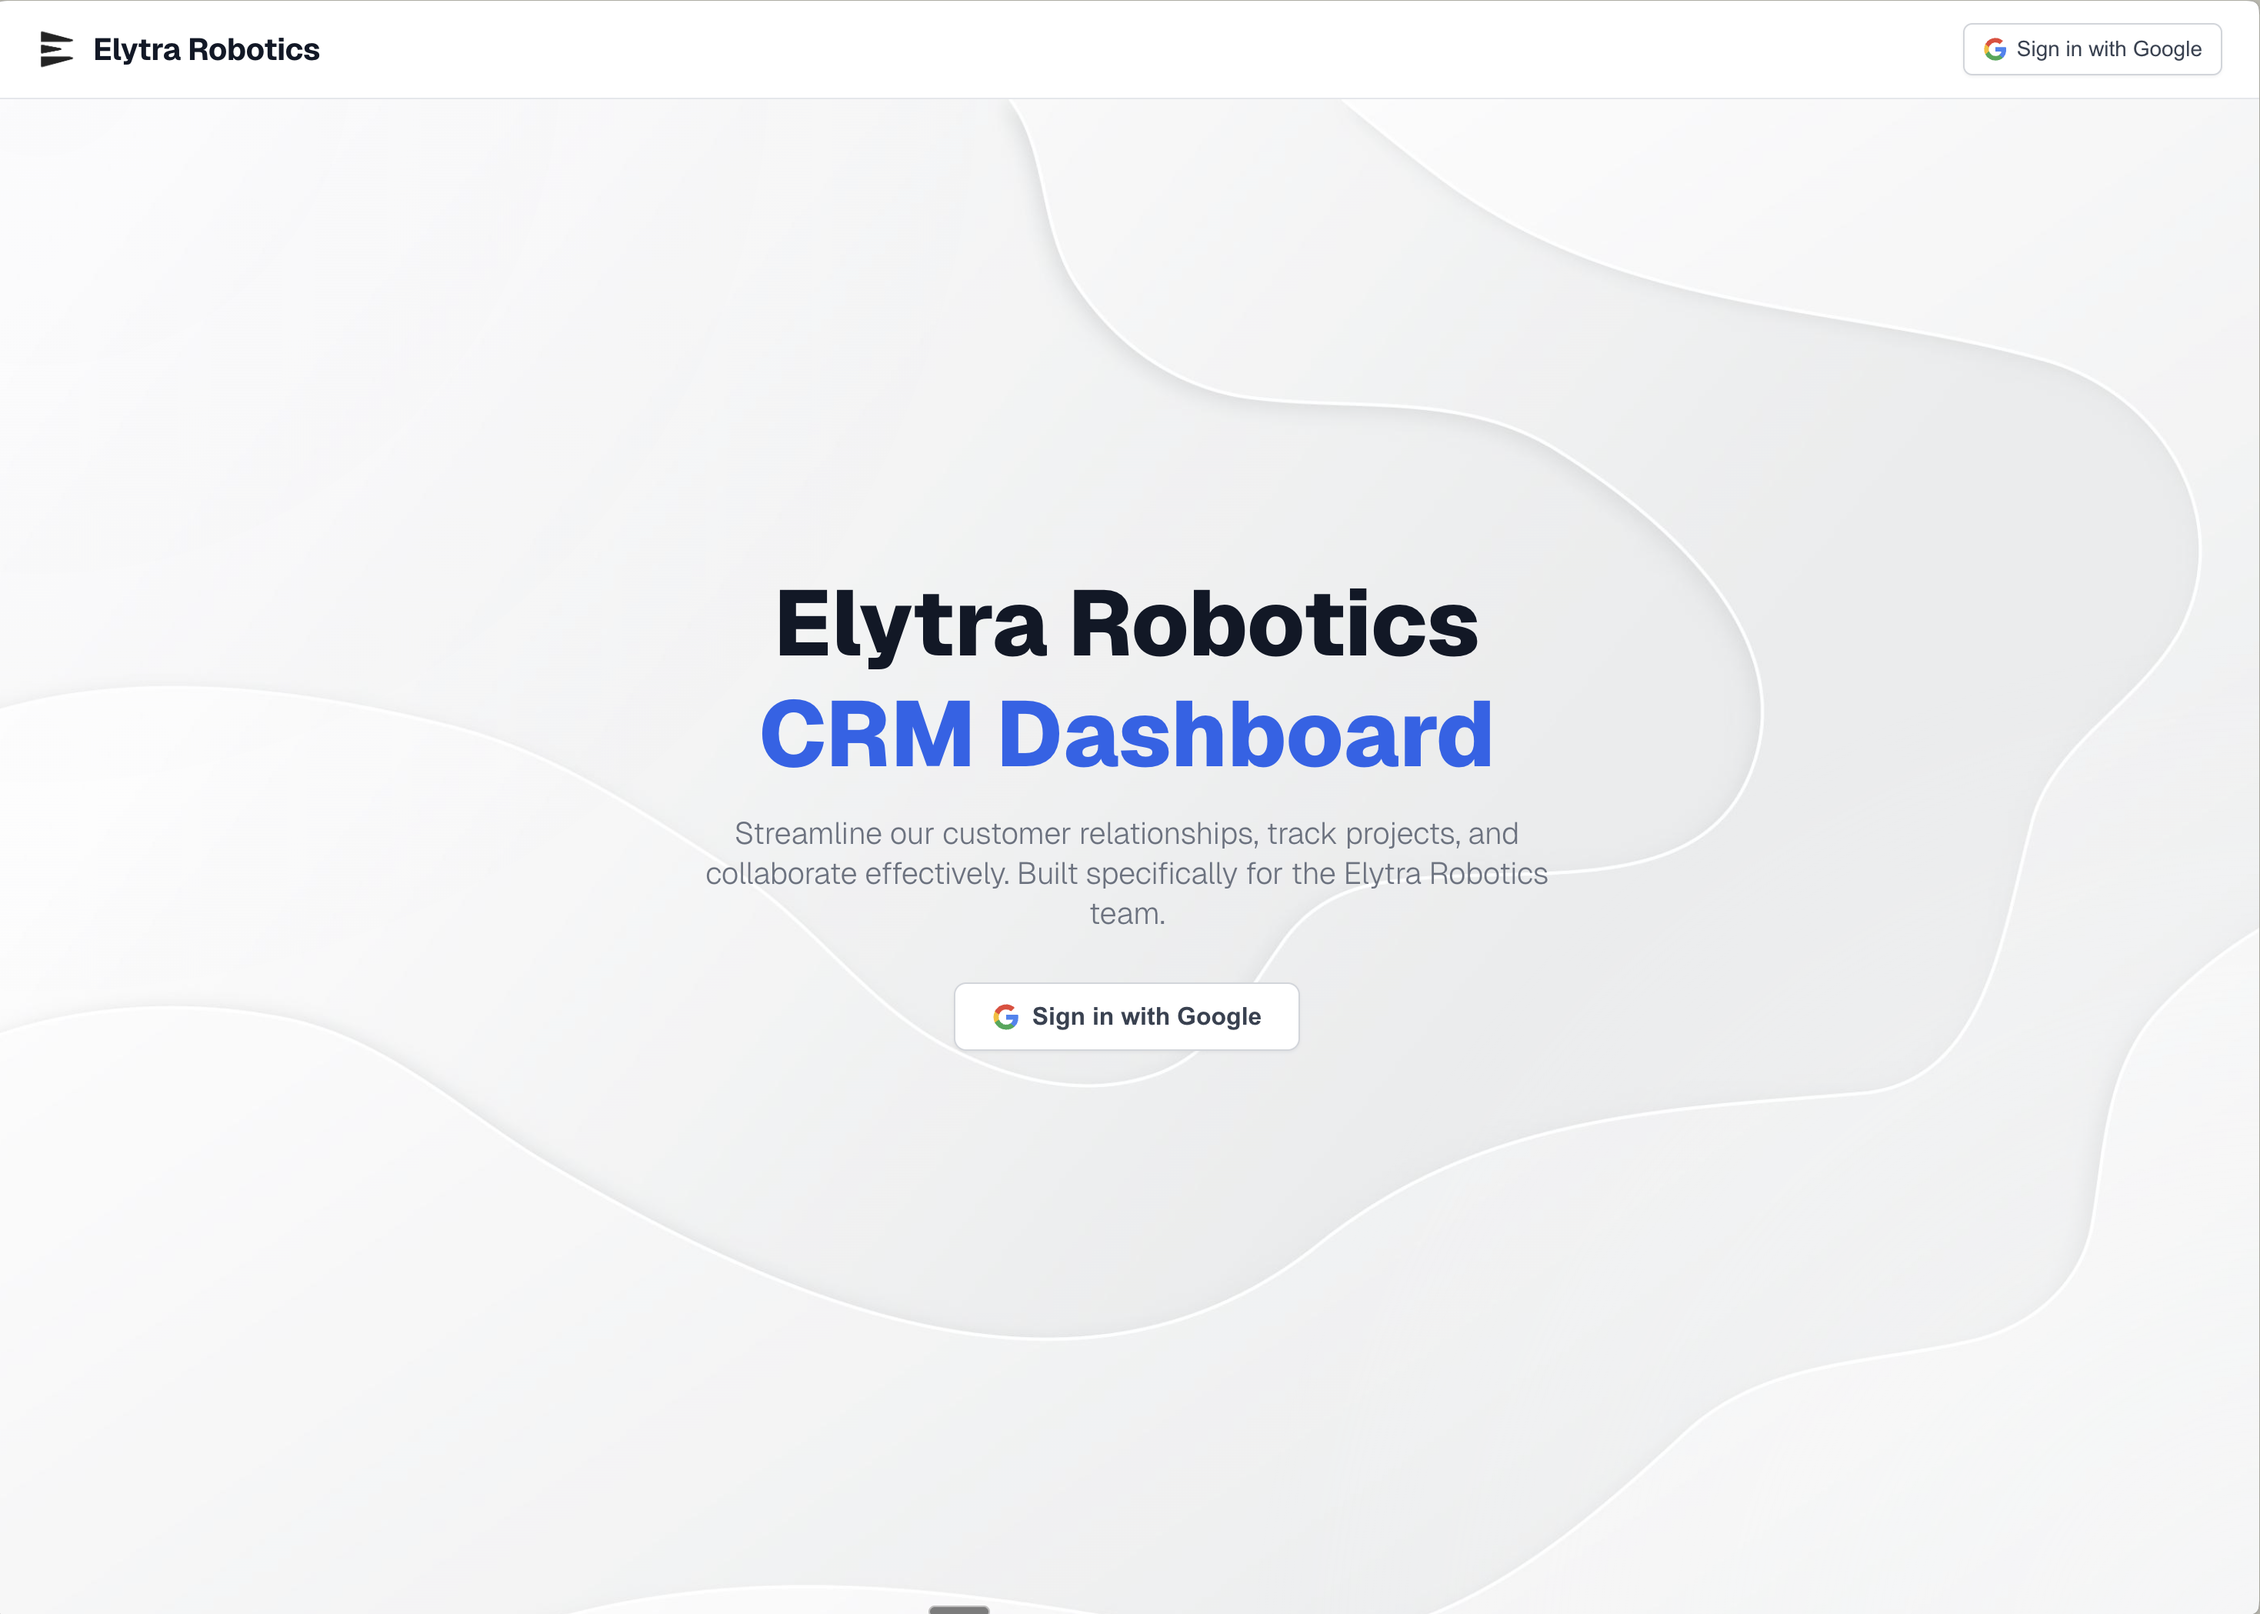
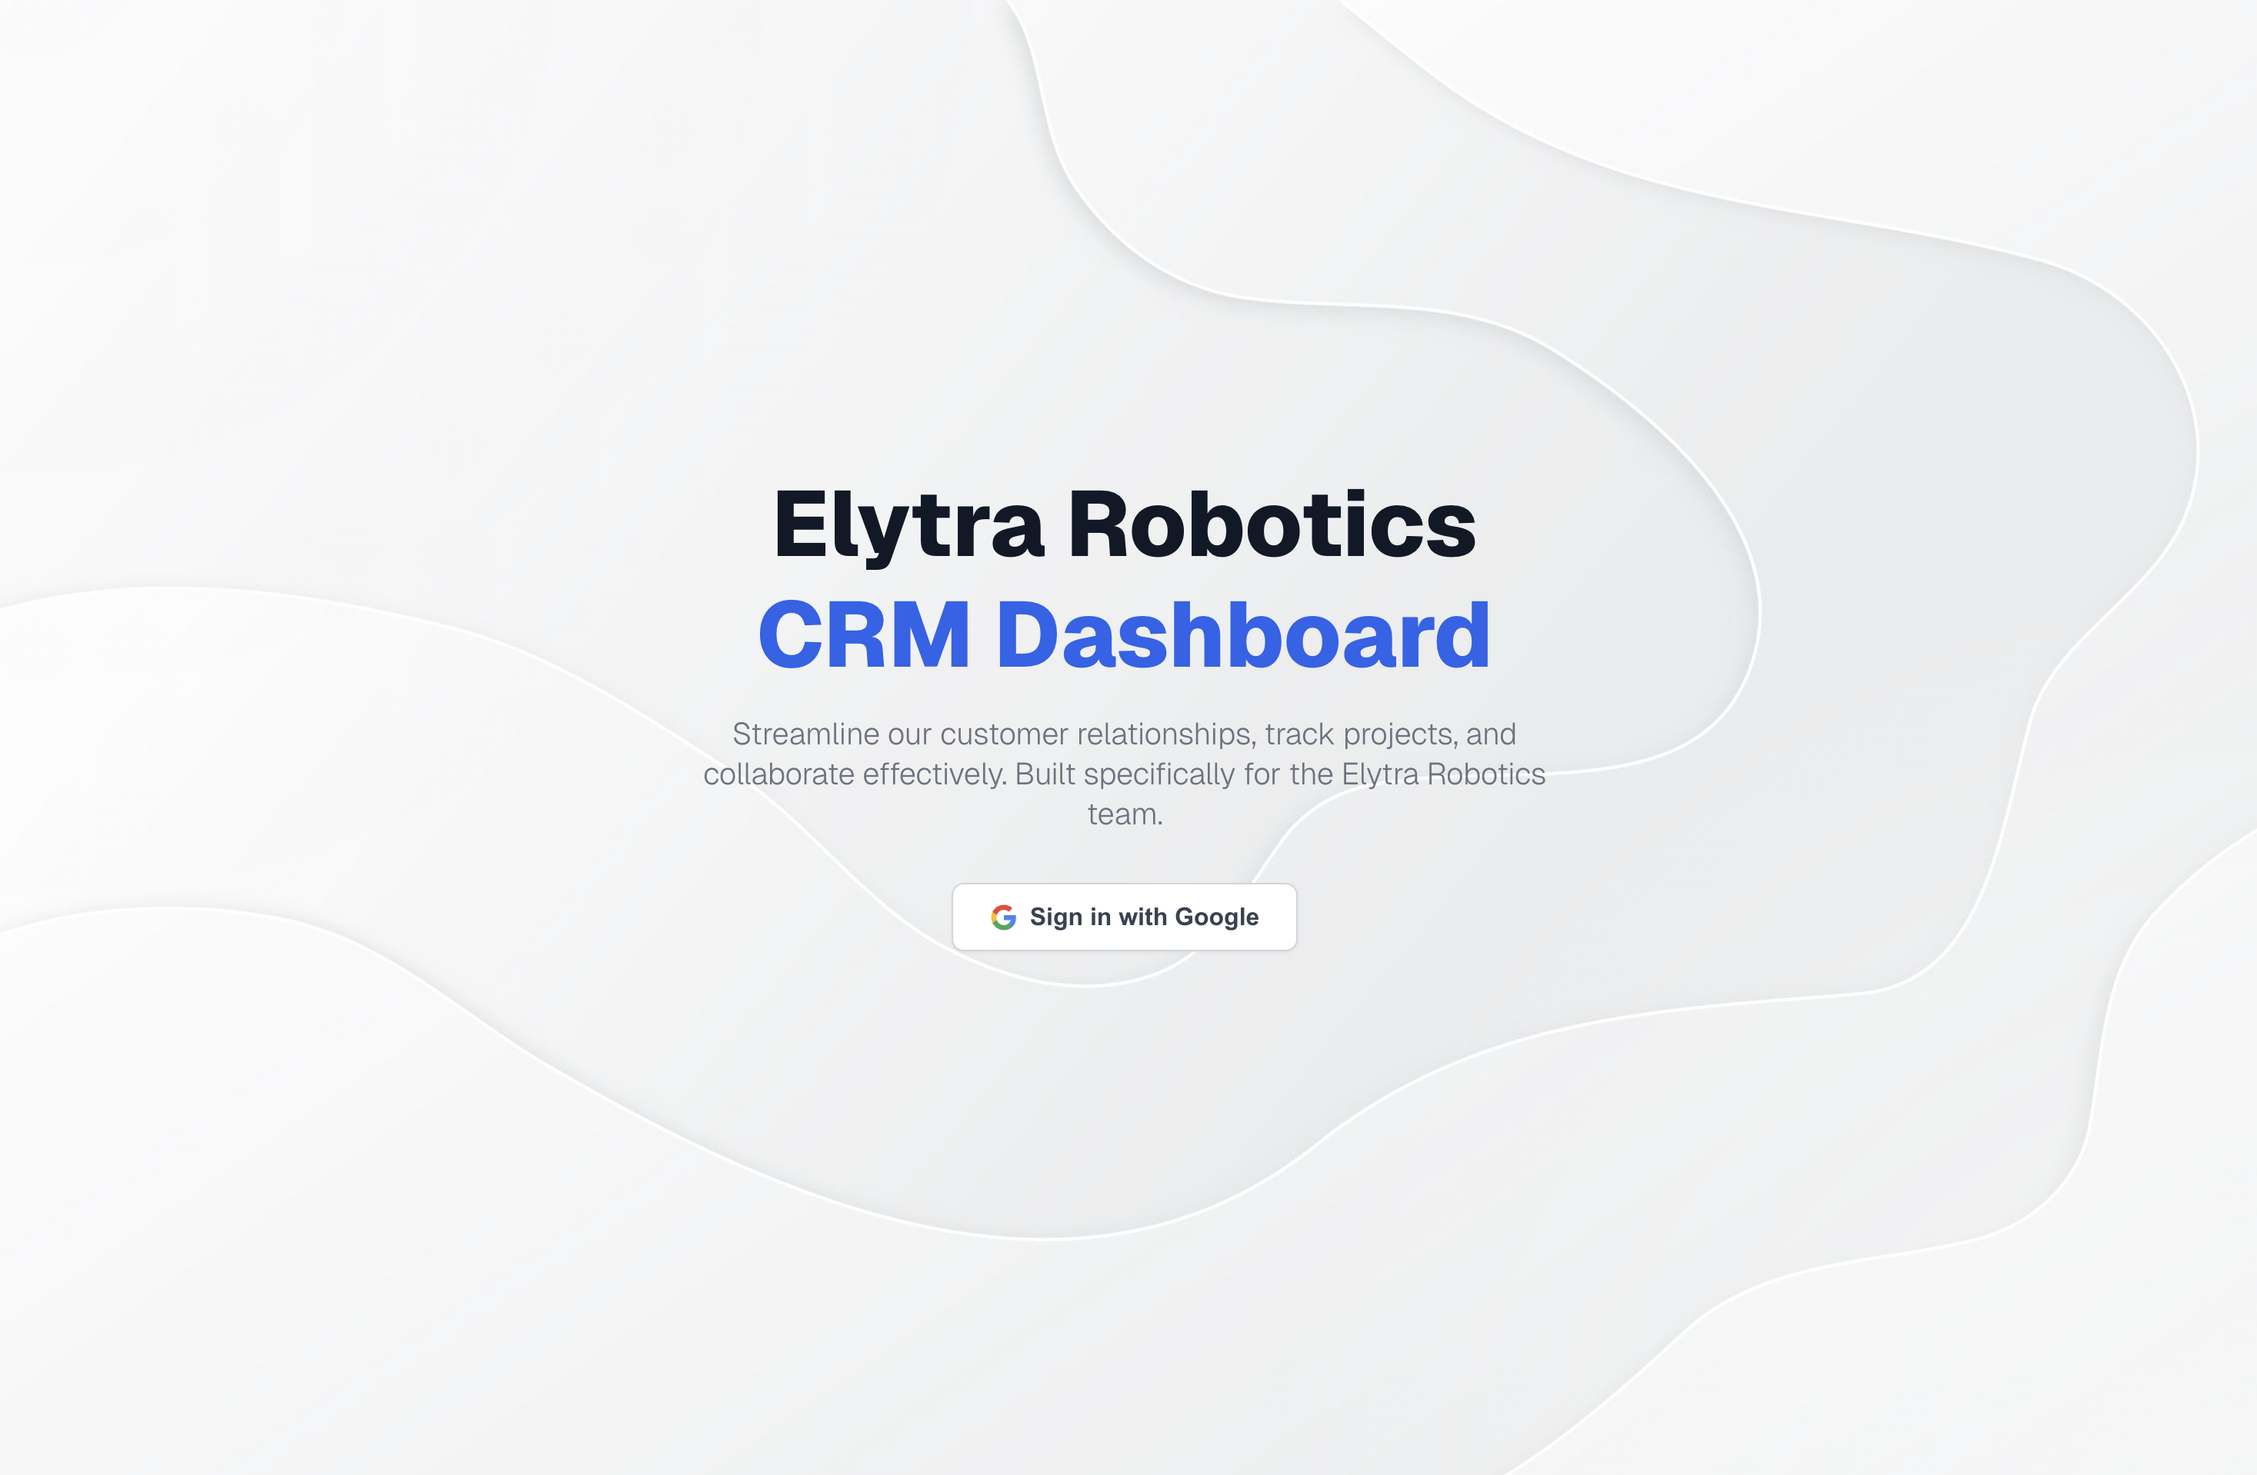
date changes

diff --git a/src/app/page.tsx b/src/app/page.tsx
@@ -962,7 +962,7 @@ export default function Home() {
                         fontFamily: "var(--font-geist-sans)",
                         lineHeight: "1"
                       }}>
-                        2024
+                        2025
                       </div>
                     </div>
                     <p style={{
@@ -1039,7 +1039,7 @@ export default function Home() {
                         fontFamily: "var(--font-geist-sans)",
                         lineHeight: "1"
                       }}>
-                        2024
+                        2025
                       </div>
                     </div>
                     <p style={{
